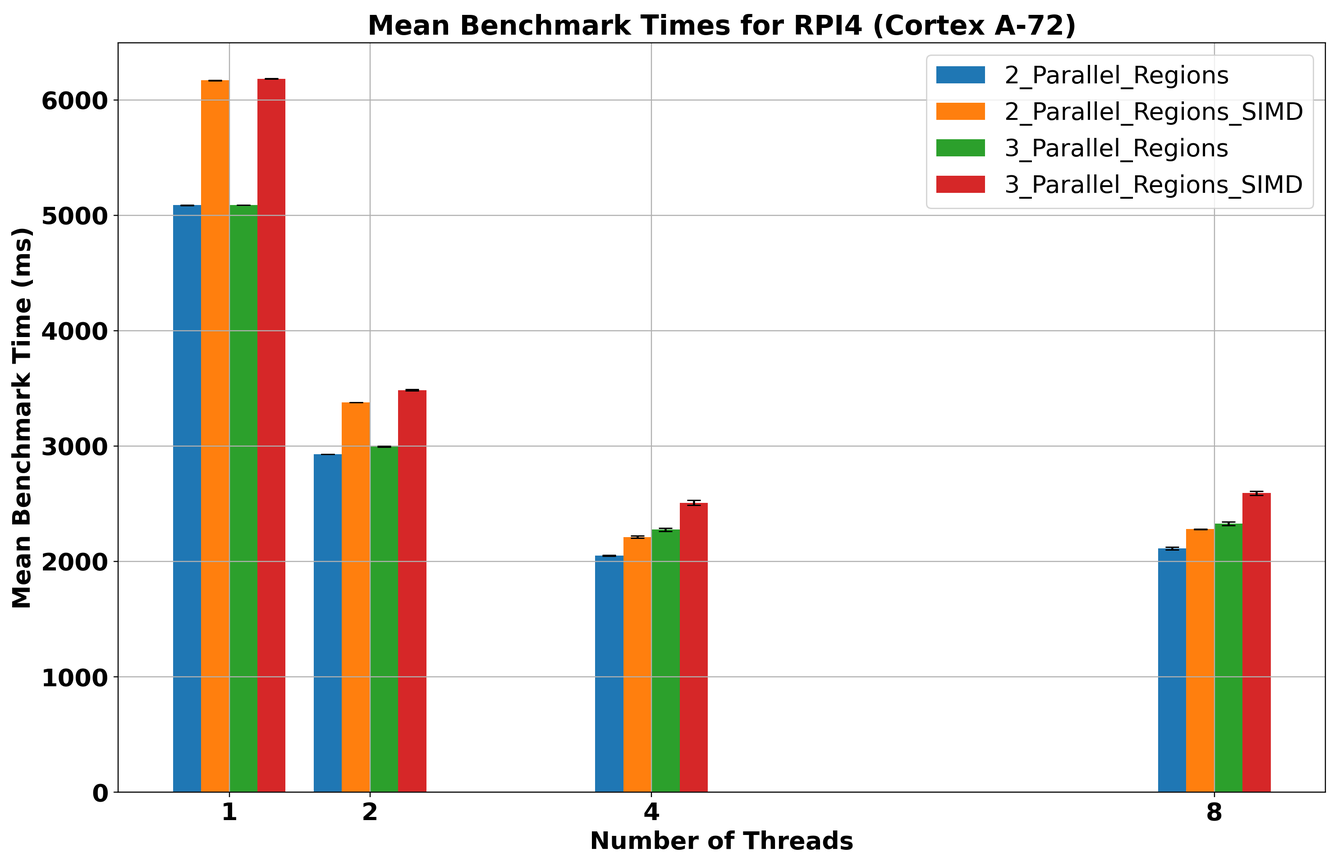
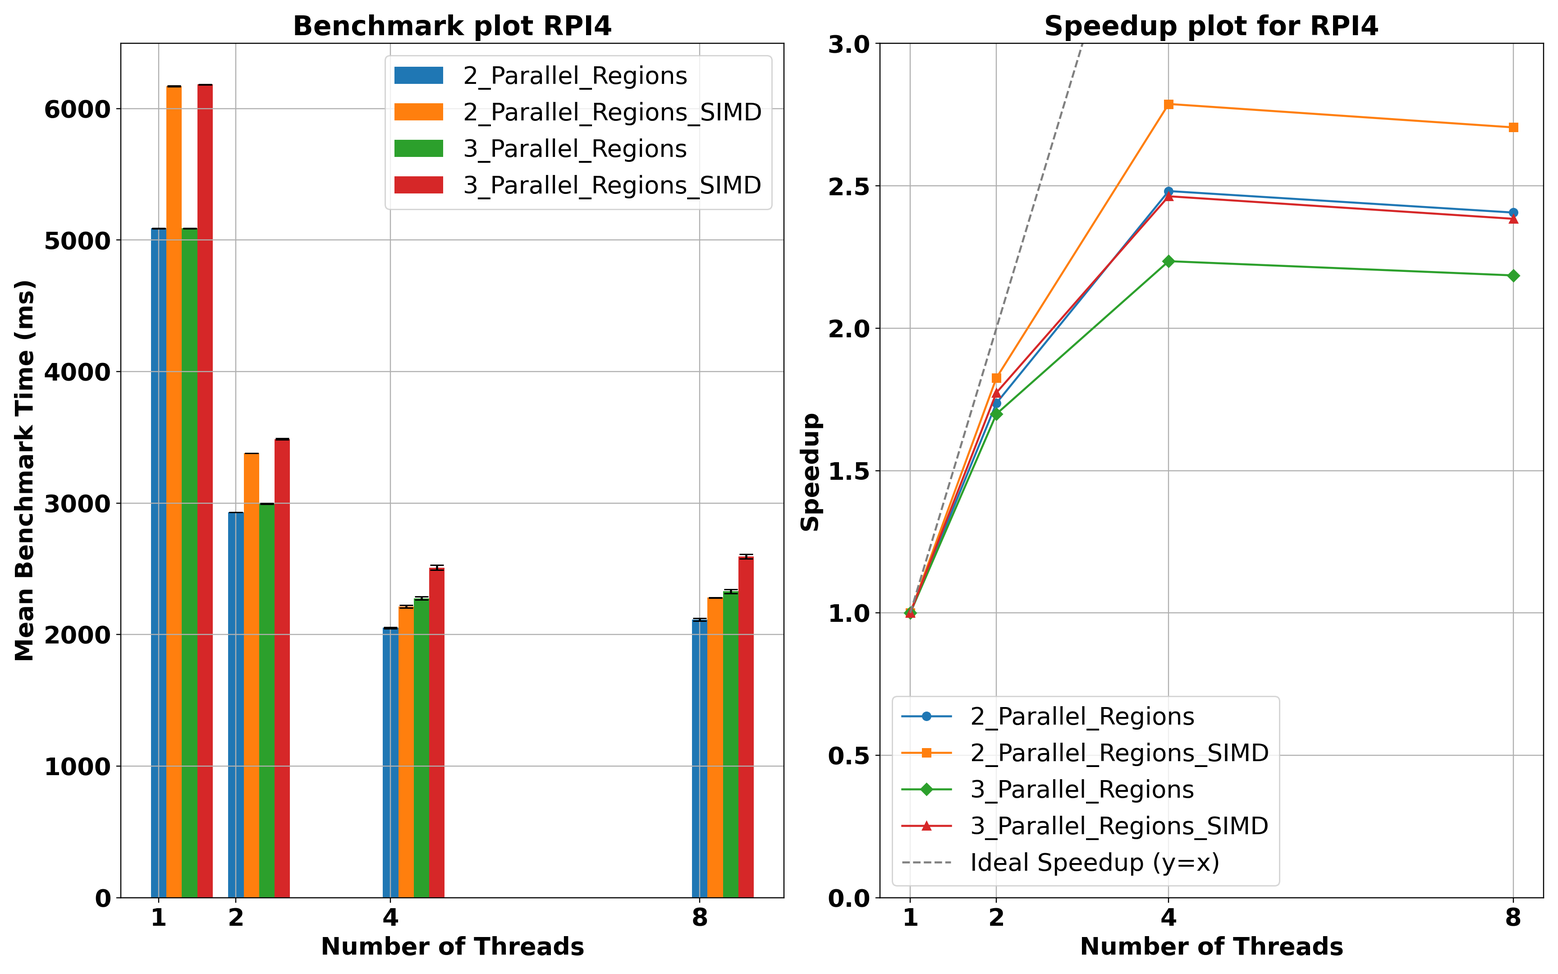
Updating plots and fixed the spacing issue

diff --git a/results_and_discussion.tex b/results_and_discussion.tex
@@ -1,21 +1,14 @@
 \section{Objective 1: \texttt{mpbenchmark}}
 
-Results from the proposed solution collected from desktop(\texttt{x86} processor) are shown below, they are presented in the legend ``C++" and ``C++(SIMD Optimised)". A benchmark plot along with a speedup plot are shown in figures ~\ref{fig:mpbenchmark_desktop_plot} and ~\ref{fig:mpbenchmark_desktop_speedup_plot} respectively. 
+Figure ~\ref{fig:mpbenchmark_desktop_plot} displays the results collect from desktop (\texttt{x86}) processor. The legend entries ``C++" and ``C++(SIMD Optimised)" represent the proposed solution with SIMD referring to \texttt{AVX2} instructions being used. 
 
 \begin{figure}[htbp] % Positioning preference: here, top, bottom, page
 	\centering
-	\includegraphics[width=1\textwidth, height=10cm]{~/Documents/Part_D_Modules/Individual_Project/Individual_report/figures/mpbenchmark_desktop.png} % Adjust the path and width as needed
-	\caption{Mean benchmark plot of \texttt{mpbenchmark} collected from \texttt{x86} processor in seconds. The error bars represent 95\% confidence interval. (Lower is better).}
+	\includegraphics[width=1\textwidth, height=20cm]{~/Documents/Part_D_Modules/Individual_Project/Individual_report/figures/mpbenchmark_desktop_results.png} % Adjust the path and width as needed
+	\caption{Mean benchmark plot in seconds shown top(lower is better). Speedup plot shown bottom(higher is better).}
 	\label{fig:mpbenchmark_desktop_plot} % Use this label to reference the figure
 \end{figure}
 
-
-\begin{figure}[htbp] % Positioning preference: here, top, bottom, page
-	\centering
-	\includegraphics[width=1\textwidth, height=10cm]{~/Documents/Part_D_Modules/Individual_Project/Individual_report/figures/mpbenchmark_desktop_speedup.png} % Adjust the path and width as needed
-	\caption{Speedup plot collected from \texttt{x86} processor. The vertical black line shows the maximum physical cores of the processor. (Higher is better).}
-	\label{fig:mpbenchmark_desktop_speedup_plot} % Use this label to reference the figure
-\end{figure}
 
 On desktop(\texttt{x86}) processor, \texttt{AVX2} instructions were used to implement SIMD intrinsics therefore we compare the decimal precision with the original unoptimised SIMD code, see table ~\ref{tab:c++_avx2_pi}.
 
@@ -23,7 +16,7 @@ On desktop(\texttt{x86}) processor, \texttt{AVX2} instructions were used to impl
 	\centering
 	\begin{tabular}{|c|c|c|}
 		\hline
-		\textbf{Programming language/configuration} & \textbf{Decimal value of $\pi$} & \textbf{Mean run time using maximum threads(s)} \\ \hline
+		\textbf{Programming language/configuration} & \textbf{Decimal value of $\pi$} & \textbf{Mean run time(s)} \\ \hline
 		\texttt{C++}             & 3.1415926535897643 &  0.007659 \\ \hline
 		\texttt{C++/AVX2}   & 3.1415926535899033 &  0.002173  \\ \hline
 		\texttt{C}                 & 3.1415926535897643 & 0.011577 \\ \hline
@@ -38,24 +31,24 @@ On desktop(\texttt{x86}) processor, \texttt{AVX2} instructions were used to impl
 % Talk about SMT's benefits if any
 % Discuss AVX2's decimal precision
 
-The proposed \texttt{C++} solution outperformed the original implementations in \texttt{C} and \texttt{Ada} by over 11\%, marking a significant reduction in runtime. Additionally, it achieved a higher speed-up compared to the \texttt{Ada} solution, as illustrated in figure~\ref{fig:mpbenchmark_desktop_speedup_plot}. The SIMD-enhanced solution achieved a remarkable runtime reduction of over 70\%, significantly outperforming all other solutions. However, this version did not show as large a speedup when run with an increased number of threads, which is not surprising given the already low runtime with a single thread. Moreover, the \texttt{AVX2}-enhanced code demonstrated decimal precision up to 12 decimal places, with discrepancies appearing from the 13th decimal place onwards, as shown in table~\ref{tab:c++_avx2_pi}. This suggests a slight consideration that using \texttt{AVX2} instructions might lead to reduced precision for calculations requiring high decimal accuracy. However, the reduction in decimal precision has been minor, and its effects on the application have been largely inconsequential. Given the dramatic improvement in performance with \texttt{AVX2} instructions, the minor loss of decimal precision seems negligible compared to the benefits. Both solutions have met their objectives, with the first achieving superior speed-up and the second providing insights into CPU performance when SIMD intrinsics are utilized.
+The proposed \texttt{C++} solution outperformed the original implementations in \texttt{C} and \texttt{Ada} by over 11\%, marking a significant reduction in runtime. Additionally, it achieved a higher speed-up compared to the \texttt{Ada} solution, as illustrated in Figure~\ref{fig:mpbenchmark_desktop_plot}. The SIMD-enhanced solution achieved a remarkable runtime reduction of over 70\%, significantly outperforming all other solutions. However, this version did not show as large a speedup when run with an increased number of threads, which is not surprising given the already low runtime with a single thread. Moreover, the \texttt{AVX2}-enhanced code demonstrated decimal precision up to 12 decimal places, with discrepancies appearing from the 13th decimal place onwards, as shown in table~\ref{tab:c++_avx2_pi}. This suggests a slight consideration that using \texttt{AVX2} instructions might lead to reduced precision for calculations requiring high decimal accuracy. However, the reduction in decimal precision has been minor, and its effects on the application have been largely inconsequential. Given the dramatic improvement in performance with \texttt{AVX2} instructions, the minor loss of decimal precision seems negligible compared to the benefits. Both solutions have met their objectives, with the first achieving superior speed-up and the second providing insights into CPU performance when SIMD intrinsics are utilized.
 
 Another noteworthy observation is the lack of performance gain when scaling from 8 to 16 cores. The processor used supports simultaneous multi-threading (SMT), commonly branded as ``Hyper-threading" for Intel CPUs, which is typical in modern \texttt{x86} processors. SMT theoretically allows each physical core to execute two threads, and an 8-core processor with SMT would appear to have 16 cores. However, the proposed solutions, along with other compiled languages like \texttt{C} and \texttt{Ada}, showed negligible performance gains by utilizing the virtual cores. \texttt{Java} experienced a slight performance degradation, while \texttt{C\#} was the only language to demonstrate a performance increase. Using the results from the \texttt{x86} processor, we can conclude that the additional cores provided by SMT did not enhance performance and, in some cases, even degraded it.
 
-Results obtained from the latest Raspberry Pi 5 (\texttt{Cortex A-76} processor) are shown in figures ~\ref{fig:mpbenchmark_rpi5_plot} and ~\ref{fig:mpbenchmark_rpi5_speedup_plot}. The results obtained from the Raspberry Pi 4(\texttt{Cortex A-72} processor) can be found in appendix (figures ~\ref{fig:mpbenchmark_rpi4_plot} and ~\ref{fig:mpbenchmark_rpi4_speedup_plot}).
+Results obtained from the latest Raspberry Pi 5 (\texttt{Cortex A-76} processor) are shown in figures ~\ref{fig:mpbenchmark_rpi5_plot}. The results obtained from the Raspberry Pi 4(\texttt{Cortex A-72} processor) can be found in [Appendix Figure ~\ref{fig:mpbenchmark_rpi4_plot}].
 
 \begin{figure}[htbp] % Positioning preference: here, top, bottom, page
 	\centering
-	\includegraphics[width=1\textwidth, height=10cm]{~/Documents/Part_D_Modules/Individual_Project/Individual_report/figures/mpbenchmark_rpi5.png} % Adjust the path and width as needed
+	\includegraphics[width=1\textwidth, height=10cm]{~/Documents/Part_D_Modules/Individual_Project/Individual_report/figures/mpbenchmark_rpi5_results2.png} % Adjust the path and width as needed
 	\caption{Mean benchmark plot of results collected from Raspberry Pi 5(in seconds). The error bars represent 95\% confidence interval. (Lower is better).}
 	\label{fig:mpbenchmark_rpi5_plot} % Use this label to reference the figure
 \end{figure}
 
 \begin{figure}[htbp] % Positioning preference: here, top, bottom, page
 	\centering
-	\includegraphics[width=1\textwidth, height=10cm]{~/Documents/Part_D_Modules/Individual_Project/Individual_report/figures/mpbenchmark_rpi5_speedup.png} % Adjust the path and width as needed
-	\caption{Speedup plot collected from Raspberry Pi 5 processor. The vertical black line shows the maximum physical cores of the processor. (Higher is better).}
-	\label{fig:mpbenchmark_rpi5_speedup_plot} % Use this label to reference the figure
+	\includegraphics[width=1\textwidth, height=10cm]{~/Documents/Part_D_Modules/Individual_Project/Individual_report/figures/mpbenchmark_rpi4_results2.png} % Adjust the path and width as needed
+	\caption{Mean benchmark plot of results collected from Raspberry Pi 4(in seconds). The error bars represent 95\% confidence interval. (Lower is better).}
+	\label{fig:mpbenchmark_rpi4_plot} % Use this label to reference the figure
 \end{figure}
 
 The decimal precision of using single and double precision floating point \texttt{NEON} instructions on the Raspberry Pi processors is compared in table ~\ref{tab:c++_neon_pi}.
@@ -89,20 +82,13 @@ Benchmarks allow us to compare the latest Raspberry Pi 5 (\texttt{Cortex A-76}) 
 The proposed \texttt{C++} solution surpassed the previously developed \texttt{mpbenchmark}\cite{mpbenchmark_paper} on both \texttt{x86} and \texttt{ARM} processors. It offered better speedup across threads, and an alternate novel \texttt{SIMD} enhanced version (where the application decides whether to use \texttt{AVX2} or \texttt{NEON} depending on the processor type) can be utilised to analyse the CPUs' SIMD performance and scalability. This unprecedented improvement is part of an upcoming publication.
 
 \section{Objective 2: \texttt{MobileNet}}
-After parallelising \texttt{MobileNet} the results collected from desktop(\texttt{x86} processor) were compared with SIMD optimisations and without them. The benchmark and speedup plot are shown in figures ~\ref{fig:mobilenet_desktop_plot} and ~\ref{fig:mobilenet_desktop_speedup}. 
+After parallelising \texttt{MobileNet} the results collected from desktop(\texttt{x86} processor) were compared with SIMD optimisations and without them. The benchmark and speedup plot are shown in figures ~\ref{fig:mobilenet_desktop_plot}.
 
 \begin{figure}[htbp] % Positioning preference: here, top, bottom, page
 	\centering
 	\includegraphics[width=1\textwidth, height=10cm]{~/Documents/Part_D_Modules/Individual_Project/Individual_report/figures/mobilenet_desktop.png} % Adjust the path and width as needed
 	\caption{Mean benchmark plot of results collected from \texttt{x86} processor(in milliseconds). (Lower is better).}
 	\label{fig:mobilenet_desktop_plot} % Use this label to reference the figure
-\end{figure}
-
-\begin{figure}[htbp] % Positioning preference: here, top, bottom, page
-	\centering
-	\includegraphics[width=1\textwidth, height=10cm]{~/Documents/Part_D_Modules/Individual_Project/Individual_report/figures/mobilenet_desktop_speedup.png} % Adjust the path and width as needed
-	\caption{Speedup plot comparing the two solutions with results collected from \texttt{x86} processor. (Higher is better).}
-	\label{fig:mobilenet_desktop_speedup} % Use this label to reference the figure
 \end{figure}
 
 The mean benchmark time of the original \texttt{MobileNet} application\cite{mobilenet_repo} was 1474.2 ms(using the \texttt{-O3} optimisation flag). The benchmark time using the maximum threads(16) with SIMD was 188.24ms and without SIMD it was 294.68ms. The SIMD optimisations are turned on and off as shown in listing  ~\ref{lst:mobilenet_parallel}. This presents a drastic reduction in run time of 87.2\% and 80.0\% for the SIMD and non-SIMD solutions respectively. Using multi-threading on the desktop processor yielded exceptional results and a dramatic improvement of the application. The results also indicate a performance degradation when using threads greater than 8 which is the maximum physical cores on the system. Both of the solutions produced a slight degradation of performance when going from 8 to 16 threads, suggesting once again the virtual cores from SMT did not yield in performance gains. 
@@ -116,7 +102,7 @@ The performance on the Raspberry Pi devices was a little more nuanced. The resul
 	\item \texttt{2\_Parallel\_Regions}: only two functions \texttt{ConvLayer::forward} and \texttt{BatchNormalLayer::forward} have been parallelised without SIMD optimisations.
 \end{enumerate}
 
-The results for Raspberry Pi 5 are shown in figures ~\ref{fig:mobilenet_rpi5_plot} and ~\ref{fig:mobilenet_rpi5_speedup}. The results for Raspberry Pi 4 can be found in appendix (figures ~\ref{fig:mobilenet_rpi4_plot} and ~\ref{fig:mobilenet_rpi4_speedup}). 
+The results for Raspberry Pi 5 are shown in Figures ~\ref{fig:mobilenet_rpi5_plot}. The results for Raspberry Pi 4 can be found in [Appendix Figure ~\ref{fig:mobilenet_rpi4_plot}].
 
 \begin{figure}[htbp] % Positioning preference: here, top, bottom, page
 	\centering
@@ -127,11 +113,10 @@ The results for Raspberry Pi 5 are shown in figures ~\ref{fig:mobilenet_rpi5_plo
 
 \begin{figure}[htbp] % Positioning preference: here, top, bottom, page
 	\centering
-	\includegraphics[width=1\textwidth, height=10cm]{~/Documents/Part_D_Modules/Individual_Project/Individual_report/figures/mobilenet_rpi5_speedup.png} % Adjust the path and width as needed
-	\caption{Speedup plot comparing different solutions with results collected from \texttt{Cortex A-76} processor. (Higher is better).}
-	\label{fig:mobilenet_rpi5_speedup} % Use this label to reference the figure
+	\includegraphics[width=1\textwidth, height=10cm]{~/Documents/Part_D_Modules/Individual_Project/Individual_report/figures/mobilenet_rpi4.png} % Adjust the path and width as needed
+	\caption{Mean benchmark plot of results collected from \texttt{Cortex A-72} processor(in milliseconds). (Lower is better).}
+	\label{fig:mobilenet_rpi4_plot} % Use this label to reference the figure
 \end{figure}
-
 
 \begin{table}[htbp]
 	\centering
@@ -176,16 +161,9 @@ Results collected from the local setup using four \texttt{STM32F767ZI} boards ar
 
 \begin{figure}[htbp] % Positioning preference: here, top, bottom, page
 	\centering
-	\includegraphics[width=1\textwidth, height=20cm]{~/Documents/Part_D_Modules/Individual_Project/Individual_report/figures/debate_fi.png} % Adjust the path and width as needed
+	\includegraphics[width=1\textwidth, height=10cm]{~/Documents/Part_D_Modules/Individual_Project/Individual_report/figures/debate_fi.png} % Adjust the path and width as needed
 	\caption{Benchmark plot comparing different solutions with runtime in minutes. (Lower is better).}
 	\label{fig:debate_fi_plot} % Use this label to reference the figure
-\end{figure}
-
-\begin{figure}[htbp] % Positioning preference: here, top, bottom, page
-	\centering
-	\includegraphics[width=1\textwidth, height=20cm]{~/Documents/Part_D_Modules/Individual_Project/Individual_report/figures/debate_fi_speedup.png} % Adjust the path and width as needed
-	\caption{Speedup plot comparing the different solutions. (Higher is better).}
-	\label{fig:debate_fi_speedup} % Use this label to reference the figure
 \end{figure}
 
 The \texttt{Python\_Unoptimised\_C++\_library} solution achieved a 55\% reduction in runtime, reducing it to 1.45 minutes from 3.17 minutes. However, it resulted in a lower speedup compared to the original, likely due to the limited runtime achieved using only one board. Conversely, the \texttt{Python\_Optimised} solution delivered the most substantial reduction in runtime of 62\% (1.20 minutes compared to 3.17 minutes). Despite this, it also exhibited a lower speedup, which began to degrade after the incorporation of 2 boards. These results were derived from only 5 test scenarios to mitigate the prolonged runtime of the application. The findings indicate that the \texttt{Python\_Optimised} solution reached a plateau, showing no further improvements beyond the use of 2 boards. This plateau may be attributed to the limited runtime where adding additional boards did not yield performance gains, suggesting that the optimal performance with this improved solution can be achieved using only 2 boards instead of 4.
@@ -196,7 +174,7 @@ All three developed solutions significantly improved the performance of the \tex
 
 Results from the main setup (figure~\ref{fig:debate_fi_setup}) using the \texttt{Python\_Optimised} solution are presented in table~\ref{tab:debate_metrics}. A 43.5\% performance gain was observed, compared to the 62.1\% improvement noted in the local setup. This still represents a significant enhancement in performance. To further investigate the proposed solution, it would be beneficial to analyse results using a varying number of boards and their respective speed-ups in the main setup. This analysis could help determine the ideal number of boards for optimal performance. Additionally, no results were collected using single-board computers (SBCs) like the Raspberry Pi, primarily due to the time constraints of this project. Investigating the performance of the proposed solution on SBCs could be another valuable area of exploration.
 
-\begin{table}[htbp]
+\begin{table}[H]
 	\centering
 	\begin{tabular}{@{}lcc@{}} % 'l' for left-aligned text, 'c' for centered text
 		\toprule

diff --git a/literature_review.tex b/literature_review.tex
@@ -114,12 +114,12 @@ The project aims to emulate the techniques and software design highlighted in th
 
 \section{Literature review conclusion}
 
-Research on the \texttt{JetBench} software has been identified as essential, as documented in the \texttt{mpbenchmark} publication\cite{mpbenchmark_paper}, which tracks its evolution and benchmarks performance across various programming languages. Analysis of both the \texttt{mpbenchmark} and \texttt{JetBench} papers\cite{JetBench_paper}\cite{mpbenchmark_paper} reveals substantial advancements, providing a robust foundation for this project to develop a more optimised \texttt{C++} solution. This initiative, guided by best practices from the renowned \texttt{C++ Concurrency in Action}\cite{c++_concurrency_in_action}—a resource recommended on Stack Overflow\cite{c++_books_stackoverflow}, builds upon existing work without redundancy.
+Research on the \texttt{JetBench} software has been identified as essential, as documented in the \texttt{mpbenchmark} publication\cite{mpbenchmark_paper}, which tracks its evolution and benchmarks performance across various programming languages. Analysis of both the \texttt{mpbenchmark} and \texttt{JetBench} papers\cite{JetBench_paper}\cite{mpbenchmark_paper} reveals substantial advancements, providing a robust foundation for this project to develop a more optimised \texttt{C++} solution. This initiative, guided by best practices from the renowned \texttt{C++ Concurrency in Action}\cite{c++_concurrency_in_action}—a resource recommended on Stack Overflow\cite{c++_books_stackoverflow}, builds upon existing work without redundancy. This project stands out from the reviewed literature in two significant ways: firstly, it rewrites the \texttt{mpbenchmark} using modern \texttt{C++}; secondly, it introduces an alternative version that employs SIMD intrinsics to extract as much performance possible from the target CPU.
 
-For the second objective, understanding of the \texttt{MobileNet} algorithm was enhanced through its foundational publication\cite{mobilenet_paper}. This project works with a \texttt{C++} implementation of \texttt{MobileNet}, sourced from an open-source GitHub repository\cite{mobilenet_repo}, to analyse and enhance the code through parallelisation. Key resources for this enhancement include the \texttt{C++} concurrency textbook\cite{c++_concurrency_in_action} and various multi-threading libraries\cite{openmp_usage_hpc}, which are crucial for optimizing performance.
+For the second objective, understanding of the \texttt{MobileNet} algorithm was enhanced through its foundational publication\cite{mobilenet_paper}. This project works with a \texttt{C++} implementation of \texttt{MobileNet}, sourced from an open-source GitHub repository\cite{mobilenet_repo}, to analyse and enhance the code through parallelisation. Key resources for this enhancement include the \texttt{C++} concurrency textbook\cite{c++_concurrency_in_action} and various multi-threading libraries\cite{openmp_usage_hpc}, which are crucial for optimizing performance. The project distinguishes from the reviewed literature in two major aspects as it creates the first multi-threaded version of the \texttt{MobileNet} CNN model and analyses its performance across different processors. 
 
 The first two objectives necessitate the development of cross-platform \texttt{C++} applications, for which \texttt{CMake} is suitable for this project. Investigations into \texttt{CMake}'s application across multiple platforms have been informed by pertinent literature\cite{cmake_publication_1}\cite{cmake_publication_2}. This research is essential to streamline the build and compilation processes, ensuring they meet industry standards.
 
-The third objective addresses a unique challenge: enhancing the \texttt{DeBaTE-FI} platform, developed by Loughborough University’s PhD students and faculty\cite{debate_fi_publication}. A thorough review of its publication was critical to comprehend its design and functionality. The project will leverage the existing features of \texttt{DeBaTE-FI}, aiming to refine its application and benchmark against the original performance metrics. 
+The third objective addresses a unique challenge: enhancing the \texttt{DeBaTE-FI} platform, developed by Loughborough University’s PhD students and faculty\cite{debate_fi_publication}. A thorough review of its publication was critical to comprehend its design and functionality. The project will leverage the existing features of \texttt{DeBaTE-FI}, aiming to refine its application and benchmark against the original performance metrics. This project distinguishes itself from the reviewed literature regarding \texttt{DeBaTE-FI} platform in two major aspects: it aims to optimise the original software stack and introduce a new library for \texttt{telnet} communication.
 
 

diff --git a/appendix.tex b/appendix.tex
@@ -139,21 +139,10 @@ To use \texttt{AVX2} instructions for the application, the following changes wer
 	endif
 \end{lstlisting}
 
-Results collected from Raspberry Pi 4 can be seen in figures ~\ref{fig:mpbenchmark_rpi4_plot} and ~\ref{fig:mpbenchmark_rpi4_speedup_plot}. 
+Results collected from Raspberry Pi 4 can be seen in figures ~\ref{fig:mpbenchmark_rpi4_plot}.
 
-\begin{figure}[H] % Positioning preference: here, top, bottom, page
-	\centering
-	\includegraphics[width=1\textwidth, height=20cm]{~/Documents/Part_D_Modules/Individual_Project/Individual_report/figures/mpbenchmark_rpi4.png} % Adjust the path and width as needed
-	\caption{Mean benchmark plot of results collected from Raspberry Pi 4(in seconds). The error bars represent 95\% confidence interval. (Lower is better).}
-	\label{fig:mpbenchmark_rpi4_plot} % Use this label to reference the figure
-\end{figure}
 
-\begin{figure}[H] % Positioning preference: here, top, bottom, page
-	\centering
-	\includegraphics[width=1\textwidth, height=20cm]{~/Documents/Part_D_Modules/Individual_Project/Individual_report/figures/mpbenchmark_rpi4_speedup.png} % Adjust the path and width as needed
-	\caption{Speedup plot collected from Raspberry Pi 4 processor. The vertical black line shows the maximum physical cores of the processor. (Higher is better).}
-	\label{fig:mpbenchmark_rpi4_speedup_plot} % Use this label to reference the figure
-\end{figure}
+
 
 % Making the table fit in the page by scaling it down
 \begin{table}[h!]
@@ -345,12 +334,7 @@ void ConvLayer::Addpad(float *pfInput)
 
 Results collected from Raspberry Pi 4 can be seen in figures ~\ref{fig:mobilenet_rpi4_plot} and ~\ref{fig:mobilenet_rpi4_speedup}. 
 
-\begin{figure}[H] % Positioning preference: here, top, bottom, page
-	\centering
-	\includegraphics[width=1\textwidth, height=20cm]{~/Documents/Part_D_Modules/Individual_Project/Individual_report/figures/mobilenet_rpi4.png} % Adjust the path and width as needed
-	\caption{Mean benchmark plot of results collected from \texttt{Cortex A-72} processor(in milliseconds). (Lower is better).}
-	\label{fig:mobilenet_rpi4_plot} % Use this label to reference the figure
-\end{figure}
+
 
 \begin{figure}[H] % Positioning preference: here, top, bottom, page
 	\centering

diff --git a/methodology.tex b/methodology.tex
@@ -1,5 +1,5 @@
 \section{Objective 1: \texttt{mpbenchmark}}
-As mentioned in the introduction section \texttt{mpbenchmark} performs calculations of a jet engine using multiple threads and produces the time taken to complete these calculations as output.The source code of \texttt{mpbenchmark} provided a solution in \texttt{C\#}, this served as a useful reference of how would be implemented in code using object-oriented design. Subsequently, the \texttt{C++} object oriented design comprised of three main classes:
+As mentioned in the introduction section \texttt{mpbenchmark} performs calculations of a jet engine using multiple threads and produces the time taken to complete these calculations as output. The source code of \texttt{mpbenchmark} provided a solution in \texttt{C\#}, this served as a useful reference of how would be implemented in code using object-oriented design. Subsequently, the \texttt{C++} object oriented design comprised of three main classes:
 
 \begin{enumerate}
 	\item \texttt{FileDataLoader}: the primary function of this class is to load data from the input file and also to allow the user to save output data to the output file.
